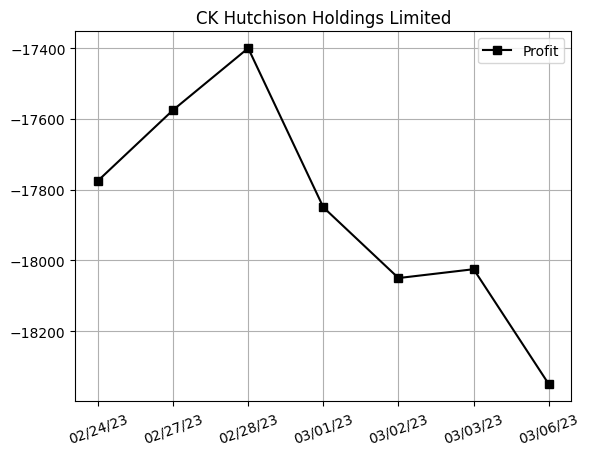
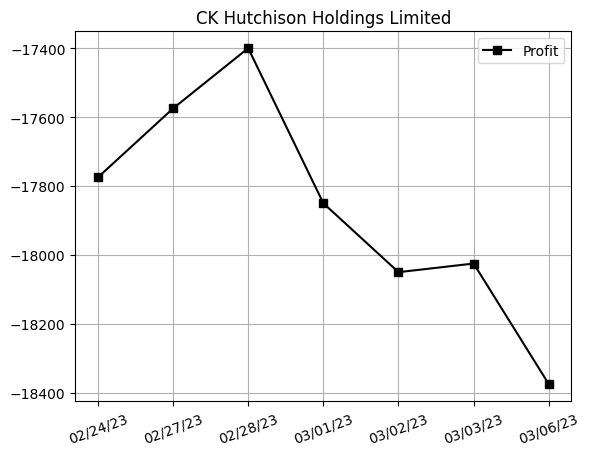
up

diff --git a/update.py b/update.py
@@ -118,7 +118,7 @@ with open(index_md, "w+") as f_index_md:
 
                 def write_profit_table(stock_data):
                     hist = stock_data['hist']
-                    profit_table = hist['Profit'].reset_index().to_html().replace('\n', '')
+                    profit_table = hist['Profit'].reset_index().to_html(index=False).replace('\n', '').replace('\t', '')
                     summary_md_f.write(f"|{profit_table}")
 
                 def write_stock(stock_data):

diff --git a/record/list_1/summary.md b/record/list_1/summary.md
@@ -2,13 +2,13 @@
 #### CSOP Hang Seng TECH Index ETF
 |price|profit|data|
 |:---:|:---:|:---:|
-|![price: CSOP Hang Seng TECH Index ETF](image/3033.HK_1d-30m.png)|![profit: CSOP Hang Seng TECH Index ETF](image/3033.HK_1d-30m_profit.png)|<table border="1" class="dataframe">  <thead>    <tr style="text-align: right;">      <th></th>      <th>Datetime</th>      <th>Profit</th>    </tr>  </thead>  <tbody>    <tr>      <th>0</th>      <td>09:30</td>      <td>3947.000027</td>    </tr>    <tr>      <th>1</th>      <td>10:00</td>      <td>3950.999975</td>    </tr>    <tr>      <th>2</th>      <td>10:30</td>      <td>3941.999912</td>    </tr>    <tr>      <th>3</th>      <td>11:00</td>      <td>3940.999985</td>    </tr>    <tr>      <th>4</th>      <td>11:30</td>      <td>3948.999882</td>    </tr>    <tr>      <th>5</th>      <td>13:00</td>      <td>3936.000109</td>    </tr>    <tr>      <th>6</th>      <td>13:30</td>      <td>3930.999994</td>    </tr>    <tr>      <th>7</th>      <td>14:00</td>      <td>3934.000015</td>    </tr>    <tr>      <th>8</th>      <td>14:30</td>      <td>3934.999943</td>    </tr>    <tr>      <th>9</th>      <td>15:00</td>      <td>3940.000057</td>    </tr>    <tr>      <th>10</th>      <td>15:30</td>      <td>3941.999912</td>    </tr>  </tbody></table>|
-|![price: CSOP Hang Seng TECH Index ETF](image/3033.HK_7d-1d.png)|![profit: CSOP Hang Seng TECH Index ETF](image/3033.HK_7d-1d_profit.png)|<table border="1" class="dataframe">  <thead>    <tr style="text-align: right;">      <th></th>      <th>Date</th>      <th>Profit</th>    </tr>  </thead>  <tbody>    <tr>      <th>0</th>      <td>02/24/23</td>      <td>4026.999950</td>    </tr>    <tr>      <th>1</th>      <td>02/27/23</td>      <td>4044.999957</td>    </tr>    <tr>      <th>2</th>      <td>02/28/23</td>      <td>4070.000052</td>    </tr>    <tr>      <th>3</th>      <td>03/01/23</td>      <td>3938.999891</td>    </tr>    <tr>      <th>4</th>      <td>03/02/23</td>      <td>3967.000008</td>    </tr>    <tr>      <th>5</th>      <td>03/03/23</td>      <td>3924.999952</td>    </tr>    <tr>      <th>6</th>      <td>03/06/23</td>      <td>3941.999912</td>    </tr>  </tbody></table>|
+|![price: CSOP Hang Seng TECH Index ETF](image/3033.HK_1d-30m.png)|![profit: CSOP Hang Seng TECH Index ETF](image/3033.HK_1d-30m_profit.png)|<table border="1" class="dataframe">  <thead>    <tr style="text-align: right;">      <th>Datetime</th>      <th>Profit</th>    </tr>  </thead>  <tbody>    <tr>      <td>09:30</td>      <td>3947.000027</td>    </tr>    <tr>      <td>10:00</td>      <td>3950.999975</td>    </tr>    <tr>      <td>10:30</td>      <td>3941.999912</td>    </tr>    <tr>      <td>11:00</td>      <td>3940.999985</td>    </tr>    <tr>      <td>11:30</td>      <td>3948.999882</td>    </tr>    <tr>      <td>13:00</td>      <td>3936.000109</td>    </tr>    <tr>      <td>13:30</td>      <td>3930.999994</td>    </tr>    <tr>      <td>14:00</td>      <td>3934.000015</td>    </tr>    <tr>      <td>14:30</td>      <td>3934.999943</td>    </tr>    <tr>      <td>15:00</td>      <td>3940.000057</td>    </tr>    <tr>      <td>15:30</td>      <td>3941.999912</td>    </tr>  </tbody></table>|
+|![price: CSOP Hang Seng TECH Index ETF](image/3033.HK_7d-1d.png)|![profit: CSOP Hang Seng TECH Index ETF](image/3033.HK_7d-1d_profit.png)|<table border="1" class="dataframe">  <thead>    <tr style="text-align: right;">      <th>Date</th>      <th>Profit</th>    </tr>  </thead>  <tbody>    <tr>      <td>02/24/23</td>      <td>4026.999950</td>    </tr>    <tr>      <td>02/27/23</td>      <td>4044.999957</td>    </tr>    <tr>      <td>02/28/23</td>      <td>4070.000052</td>    </tr>    <tr>      <td>03/01/23</td>      <td>3938.999891</td>    </tr>    <tr>      <td>03/02/23</td>      <td>3967.000008</td>    </tr>    <tr>      <td>03/03/23</td>      <td>3924.999952</td>    </tr>    <tr>      <td>03/06/23</td>      <td>3941.999912</td>    </tr>  </tbody></table>|
 ---
 ## 0001.HK:
 #### CK Hutchison Holdings Limited
 |price|profit|data|
 |:---:|:---:|:---:|
-|![price: CK Hutchison Holdings Limited](image/0001.HK_1d-30m.png)|![profit: CK Hutchison Holdings Limited](image/0001.HK_1d-30m_profit.png)|<table border="1" class="dataframe">  <thead>    <tr style="text-align: right;">      <th></th>      <th>Datetime</th>      <th>Profit</th>    </tr>  </thead>  <tbody>    <tr>      <th>0</th>      <td>09:30</td>      <td>-18299.999237</td>    </tr>    <tr>      <th>1</th>      <td>10:00</td>      <td>-18299.999237</td>    </tr>    <tr>      <th>2</th>      <td>10:30</td>      <td>-18350.000381</td>    </tr>    <tr>      <th>3</th>      <td>11:00</td>      <td>-18350.000381</td>    </tr>    <tr>      <th>4</th>      <td>11:30</td>      <td>-18399.999619</td>    </tr>    <tr>      <th>5</th>      <td>13:00</td>      <td>-18450.000763</td>    </tr>    <tr>      <th>6</th>      <td>13:30</td>      <td>-18475.000381</td>    </tr>    <tr>      <th>7</th>      <td>14:00</td>      <td>-18500.000000</td>    </tr>    <tr>      <th>8</th>      <td>14:30</td>      <td>-18475.000381</td>    </tr>    <tr>      <th>9</th>      <td>15:00</td>      <td>-18399.999619</td>    </tr>    <tr>      <th>10</th>      <td>15:30</td>      <td>-18350.000381</td>    </tr>  </tbody></table>|
-|![price: CK Hutchison Holdings Limited](image/0001.HK_7d-1d.png)|![profit: CK Hutchison Holdings Limited](image/0001.HK_7d-1d_profit.png)|<table border="1" class="dataframe">  <thead>    <tr style="text-align: right;">      <th></th>      <th>Date</th>      <th>Profit</th>    </tr>  </thead>  <tbody>    <tr>      <th>0</th>      <td>02/24/23</td>      <td>-17774.999619</td>    </tr>    <tr>      <th>1</th>      <td>02/27/23</td>      <td>-17575.000763</td>    </tr>    <tr>      <th>2</th>      <td>02/28/23</td>      <td>-17399.999619</td>    </tr>    <tr>      <th>3</th>      <td>03/01/23</td>      <td>-17850.000381</td>    </tr>    <tr>      <th>4</th>      <td>03/02/23</td>      <td>-18049.999237</td>    </tr>    <tr>      <th>5</th>      <td>03/03/23</td>      <td>-18024.999619</td>    </tr>    <tr>      <th>6</th>      <td>03/06/23</td>      <td>-18350.000381</td>    </tr>  </tbody></table>|
+|![price: CK Hutchison Holdings Limited](image/0001.HK_1d-30m.png)|![profit: CK Hutchison Holdings Limited](image/0001.HK_1d-30m_profit.png)|<table border="1" class="dataframe">  <thead>    <tr style="text-align: right;">      <th>Datetime</th>      <th>Profit</th>    </tr>  </thead>  <tbody>    <tr>      <td>09:30</td>      <td>-18299.999237</td>    </tr>    <tr>      <td>10:00</td>      <td>-18299.999237</td>    </tr>    <tr>      <td>10:30</td>      <td>-18350.000381</td>    </tr>    <tr>      <td>11:00</td>      <td>-18350.000381</td>    </tr>    <tr>      <td>11:30</td>      <td>-18399.999619</td>    </tr>    <tr>      <td>13:00</td>      <td>-18450.000763</td>    </tr>    <tr>      <td>13:30</td>      <td>-18475.000381</td>    </tr>    <tr>      <td>14:00</td>      <td>-18500.000000</td>    </tr>    <tr>      <td>14:30</td>      <td>-18475.000381</td>    </tr>    <tr>      <td>15:00</td>      <td>-18399.999619</td>    </tr>    <tr>      <td>15:30</td>      <td>-18375.000000</td>    </tr>  </tbody></table>|
+|![price: CK Hutchison Holdings Limited](image/0001.HK_7d-1d.png)|![profit: CK Hutchison Holdings Limited](image/0001.HK_7d-1d_profit.png)|<table border="1" class="dataframe">  <thead>    <tr style="text-align: right;">      <th>Date</th>      <th>Profit</th>    </tr>  </thead>  <tbody>    <tr>      <td>02/24/23</td>      <td>-17774.999619</td>    </tr>    <tr>      <td>02/27/23</td>      <td>-17575.000763</td>    </tr>    <tr>      <td>02/28/23</td>      <td>-17399.999619</td>    </tr>    <tr>      <td>03/01/23</td>      <td>-17850.000381</td>    </tr>    <tr>      <td>03/02/23</td>      <td>-18049.999237</td>    </tr>    <tr>      <td>03/03/23</td>      <td>-18024.999619</td>    </tr>    <tr>      <td>03/06/23</td>      <td>-18375.000000</td>    </tr>  </tbody></table>|
 ---
